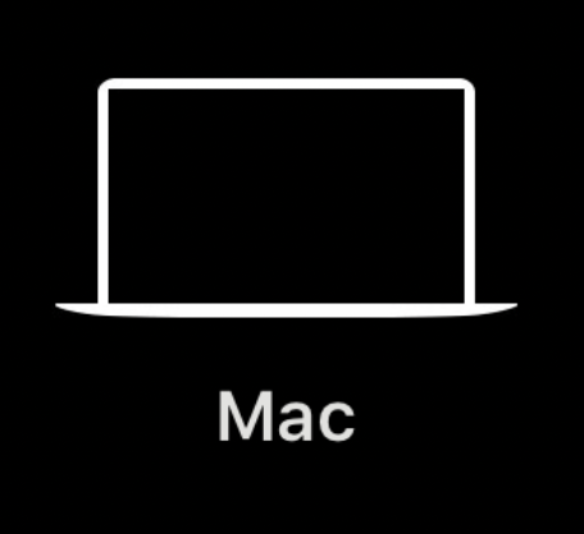
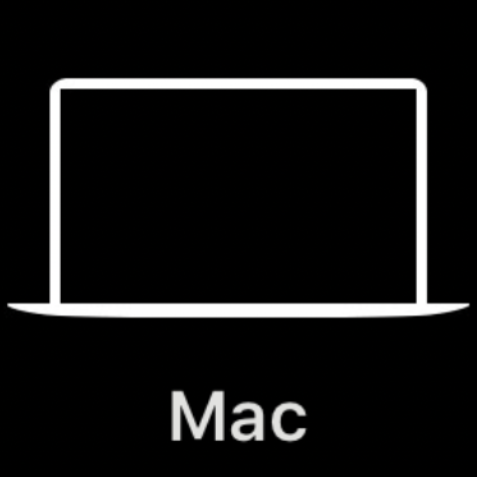
feat: :lipstick: Adding the font-face

Changed region(s): [[0.0, 0.1468, 0.9979, 0.6751], [0.3522, 0.7044, 0.6457, 0.9392]]

diff --git a/DIA5/html/index.html b/DIA5/html/index.html
@@ -7,7 +7,7 @@
     <link rel="stylesheet" href="../css/styles.css">
     <link rel="icon" type="image/x-icon" href="../img/LogoPrimeE2.png">
 </head>
-<body style="background-color: black;">
+<body>
     <!--Fondo de toda la página-->
     <div id="fondo">
         <!--BARRA SUPERIOR (LOGIN + SEARCH BUTTON)-->
@@ -83,7 +83,20 @@
                 in Prime Entertaiment:
             </p>
             <!--Imágenes-->
-            <div></div>
+            <div class="devices">
+                <img src="../img/Flecha.png" alt="Flecha" class="row">
+                <img src="../img/Image 2.png" alt="iPhone" class="devices">
+                <img src="../img/Image 1.png" alt="Mac" id="mac">
+                <img src="../img/Image 3.png" alt="PC" class="devices">
+            </div>
+        </div>
+        <!--Politicas & etc-->
+        <div id="politicas">
+            <a href="" class="etc">Privacy Policy</a>
+            <a href="" class="etc">Terms of Use</a>
+            <a href="" class="etc">Sales and Refunds</a>
+            <a href="" class="etc">Legal</a>
+            <a href="" class="etc">Site Map</a>
         </div>
     </div>
 </body>

diff --git a/DIA5/css/styles.css b/DIA5/css/styles.css
@@ -1,3 +1,14 @@
+@font-face {
+    font-family: 'Amazon Embered';
+    src: url(/DIA5/fonts/AmazonEmber_Lt.ttf);
+    font-weight: normal;
+    font-size: 300px; 
+}
+
+body{
+    background-color: black;
+}
+
 #fondo {
     width: 1920px;
     height: 1080px;
@@ -26,7 +37,8 @@ div.login {
 }
 
 button.login {
-    width: 100%;
+    width: 205px;
+    height: 54px;
     border-radius: 100px;
 }
 
@@ -38,7 +50,7 @@ button.login {
 
 .font-text {
     color: white;
-    font-family: Amazon Ember;
+    font-family: 'Amazon Embered';
 }
 
 #text1 {
@@ -91,3 +103,40 @@ img.container{
     color: white;
 }
 
+div.devices{
+    text-align: center;
+}
+
+img.devices{
+    width: 271px;
+    height: 238px;
+    opacity: 0.5;
+}
+
+img.devices:hover{
+    opacity: 1;
+    border-radius: 1px;
+}
+
+#mac{
+    width: 564px;
+    height: 500px;
+    opacity: 0.5;
+}
+
+#mac:hover{
+    opacity: 1;
+}
+
+.row{
+    width: 30px;
+    height: ;
+}
+
+
+.etc{
+    font-family: 'Amazon Embered';
+    font-size: 20px;
+    color: white;
+    margin: 10px 20px;
+}
